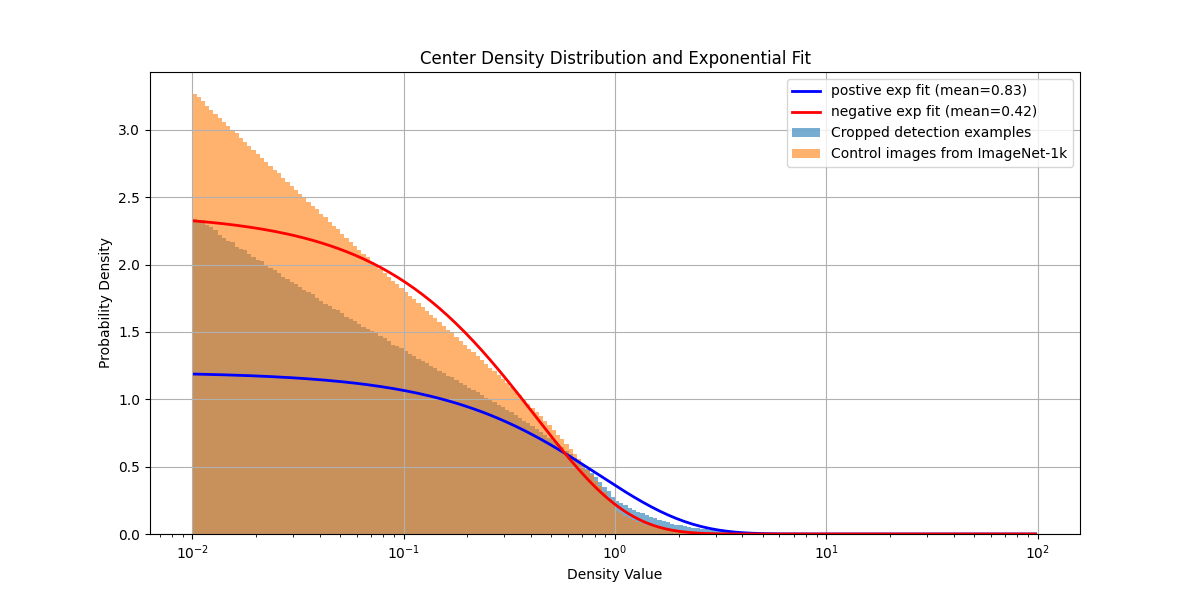
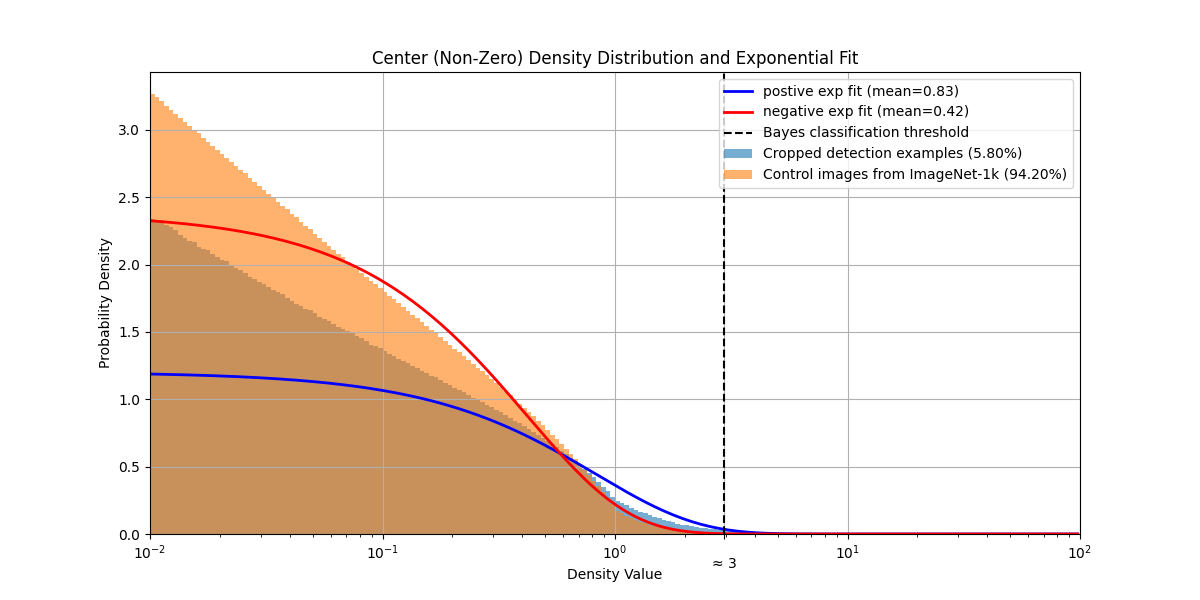
classification boundary conveniently close to 3

diff --git a/depth12.py b/depth12.py
@@ -71,6 +71,8 @@ if __name__ == "__main__":
         total_outside_hist = results['total_outside_hist']
         mean_inside = results['mean_inside']
         mean_outside = results['mean_outside']
+        inside_count = results['inside_count']
+        outside_count = results['outside_count']
     else:
         print("No cached analysis file found. Processing datasets...")
         ballnt_ds = read_ballnt_depth_records()
@@ -152,16 +154,32 @@ if __name__ == "__main__":
 
     bin_centers = (bins[:-1] + bins[1:]) / 2
 
+    ratio = inside_count / (inside_count + outside_count)
+
+    boundary = np.log(inside_count / mean_inside) - np.log(outside_count / mean_outside)
+    boundary /= (1 / mean_inside) - (1 / mean_outside)
+
     plt.figure(figsize=(12, 6))
-    plt.bar(bin_centers, inside_pmf, width=np.diff(bins), alpha=0.6, label='Cropped detection examples')
+    plt.bar(bin_centers, inside_pmf, width=np.diff(bins), alpha=0.6, label=f'Cropped detection examples ({ratio:.2%})')
     plt.plot(bin_centers, inside_fit.pdf(bin_centers), 'b-', lw=2, label=f'postive exp fit (mean={mean_inside:.2f})')
 
     plt.gca().set_xscale('log')
 
-    plt.bar(bin_centers, outside_pmf, width=np.diff(bins), alpha=0.6, label='Control images from ImageNet-1k')
+    plt.bar(bin_centers, outside_pmf, width=np.diff(bins), alpha=0.6, label=f'Control images from ImageNet-1k ({1 - ratio:.2%})')
     plt.plot(bin_centers, outside_fit.pdf(bin_centers), 'r-', lw=2, label=f'negative exp fit (mean={mean_outside:.2f})')
 
-    plt.title('Center Density Distribution and Exponential Fit')
+    plt.axvline(boundary, color='k', linestyle='--', label='Bayes classification threshold')
+
+    # Add a custom tick for the boundary
+    ax = plt.gca()
+    ax.set_xticks(list(ax.get_xticks()) + [boundary])
+    ax.text(boundary, -0.05, "≈ 3",
+            transform=ax.get_xaxis_transform(),
+            ha='center', va='top')
+
+    ax.set_xlim(1e-2, 1e2)
+
+    plt.title('Center (Non-Zero) Density Distribution and Exponential Fit')
     plt.xlabel('Density Value')
     plt.ylabel('Probability Density')
     plt.legend()